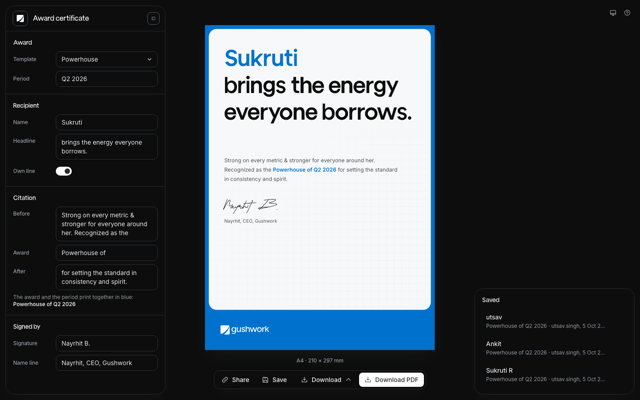
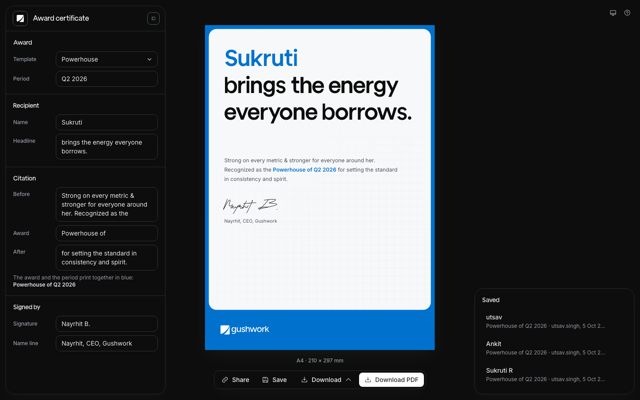
Award certificate: drop the Own line switch
The name's line follows the chosen template, as drawn in Figma.

diff --git a/web/internal/staging/award-certificate/app.jsx b/web/internal/staging/award-certificate/app.jsx
@@ -99,15 +99,6 @@ function PropTextarea({ value, onChange, placeholder, rows = 3 }) {
   );
 }
 
-function PropSwitch({ value, onChange, label }) {
-  return (
-    <button type="button" role="switch" aria-checked={!!value} aria-label={label}
-      className={`gw-switch${value ? ' on' : ''}`} onClick={() => onChange(!value)}>
-      <span className="gw-switch__knob" />
-    </button>
-  );
-}
-
 /* Opens on click, never on hover; a plain check on the selected row. */
 function PropDropdown({ value, options, onChange }) {
   const [open, setOpen] = useState(false);
@@ -419,9 +410,6 @@ function App() {
               </PropRow>
               <PropRow label="Headline" align="start">
                 <PropTextarea value={data.headline} onChange={set('headline')} rows={2} placeholder="landed the whales." />
-              </PropRow>
-              <PropRow label="Own line">
-                <PropSwitch value={data.nameOwnLine} onChange={set('nameOwnLine')} label="Name on its own line" />
               </PropRow>
             </PropSection>
 

diff --git a/web/internal/staging/award-certificate/index.html b/web/internal/staging/award-certificate/index.html
@@ -35,6 +35,6 @@
     <script src="/internal/staging/award-certificate/certificate-export.js?v=2"></script>
 
     <script type="text/babel" src="/internal/staging/award-certificate/certificate.jsx?v=2"></script>
-    <script type="text/babel" src="/internal/staging/award-certificate/app.jsx?v=4"></script>
+    <script type="text/babel" src="/internal/staging/award-certificate/app.jsx?v=5"></script>
   </body>
 </html>
